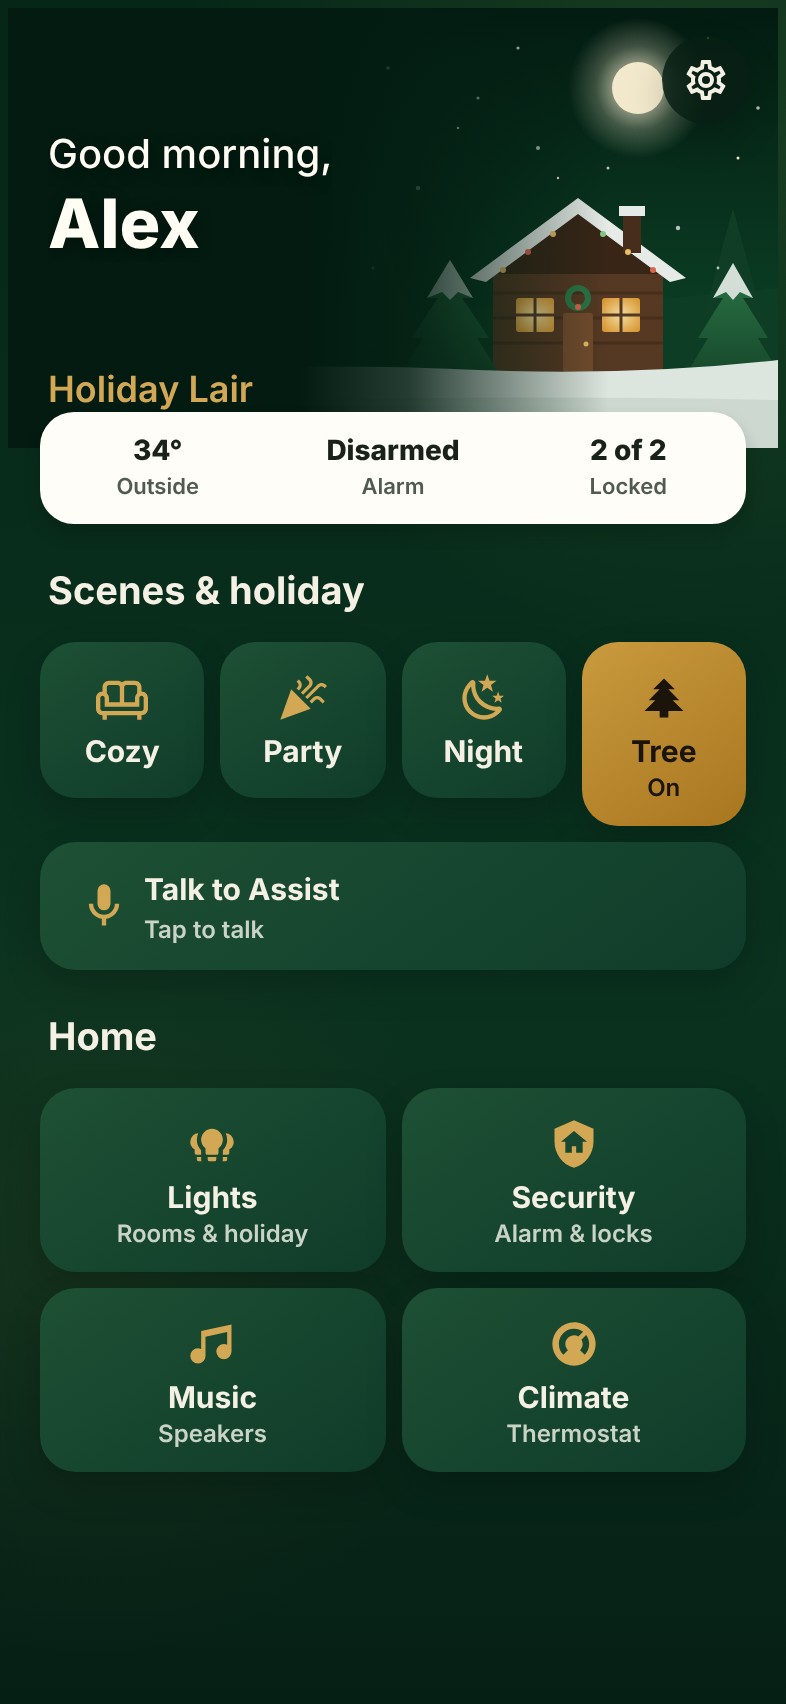
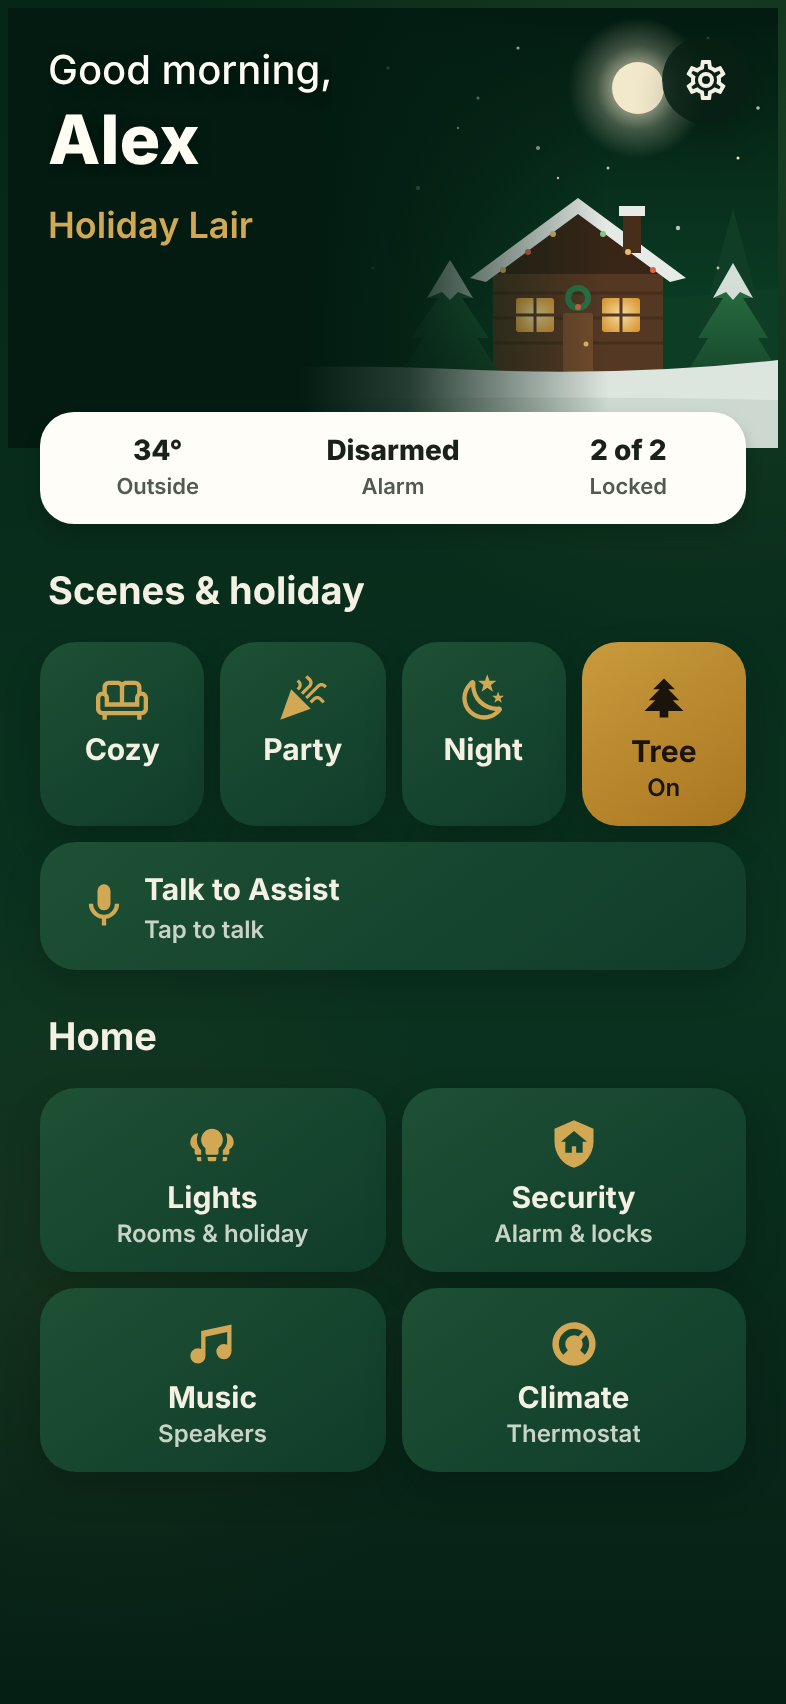
Fix hero title spacing and even out the scene tiles (#2)
* Keep the hero title on the night sky and even out scene tiles.

button-card's flexible first row was dropping "Holiday Lair" onto the snow
and against the status pill. Scene tiles now share the tree toggle's height
so the gold On state no longer makes that tile taller than the others.

* docs: retake screenshots after hero and tile fixes

---------

diff --git a/tools/contrast.py b/tools/contrast.py
@@ -11,5 +11,6 @@ pairs=[("primary text on card","#F4F0E4","#103D2B"),("secondary text on card","#
  ("dark text on active gold (light end)","#1B140A","#C99A3E"),("dark text on active gold (dark end)","#1B140A","#A8761F"),
  ("status strip value","#18221B","#FFFDF7"),("status strip caption","#4F5A51","#FFFDF7"),
  ("header subtitle on header","#C9D3C6","#031D12"),("page text on page bg","#F4F0E4","#0A321F"),
+ ("hero title on night sky","#D3A855","#031B11"),
  ("old bug: #141414 label on card","#141414","#103D2B")]
 for n,a,b in pairs: print(f"{ratio(a,b):5.2f}:1  {'PASS' if ratio(a,b)>=4.5 else 'FAIL'}  {n} ({a} on {b})")
